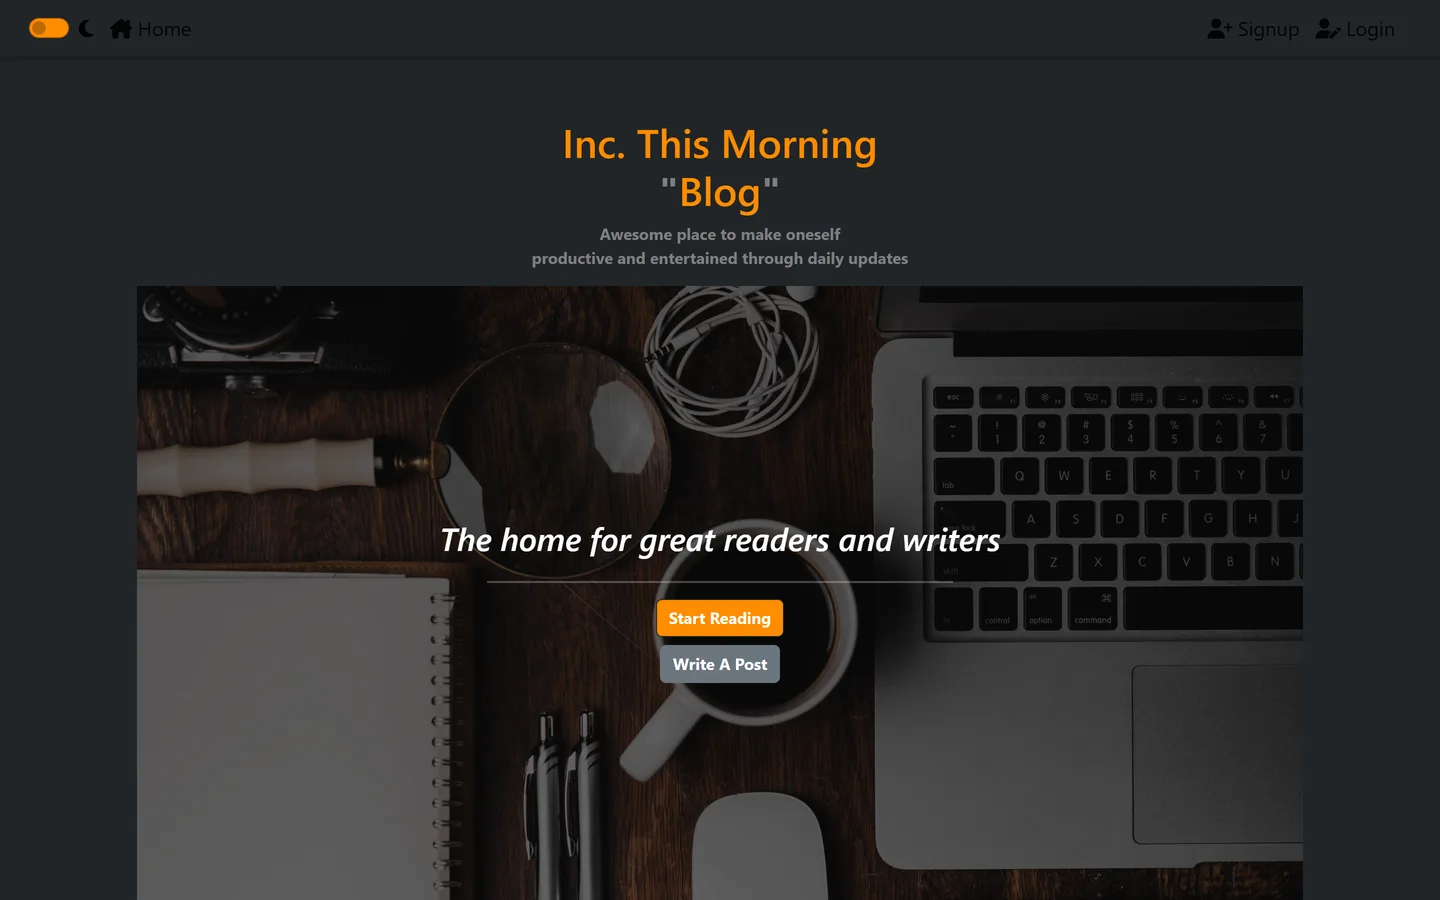
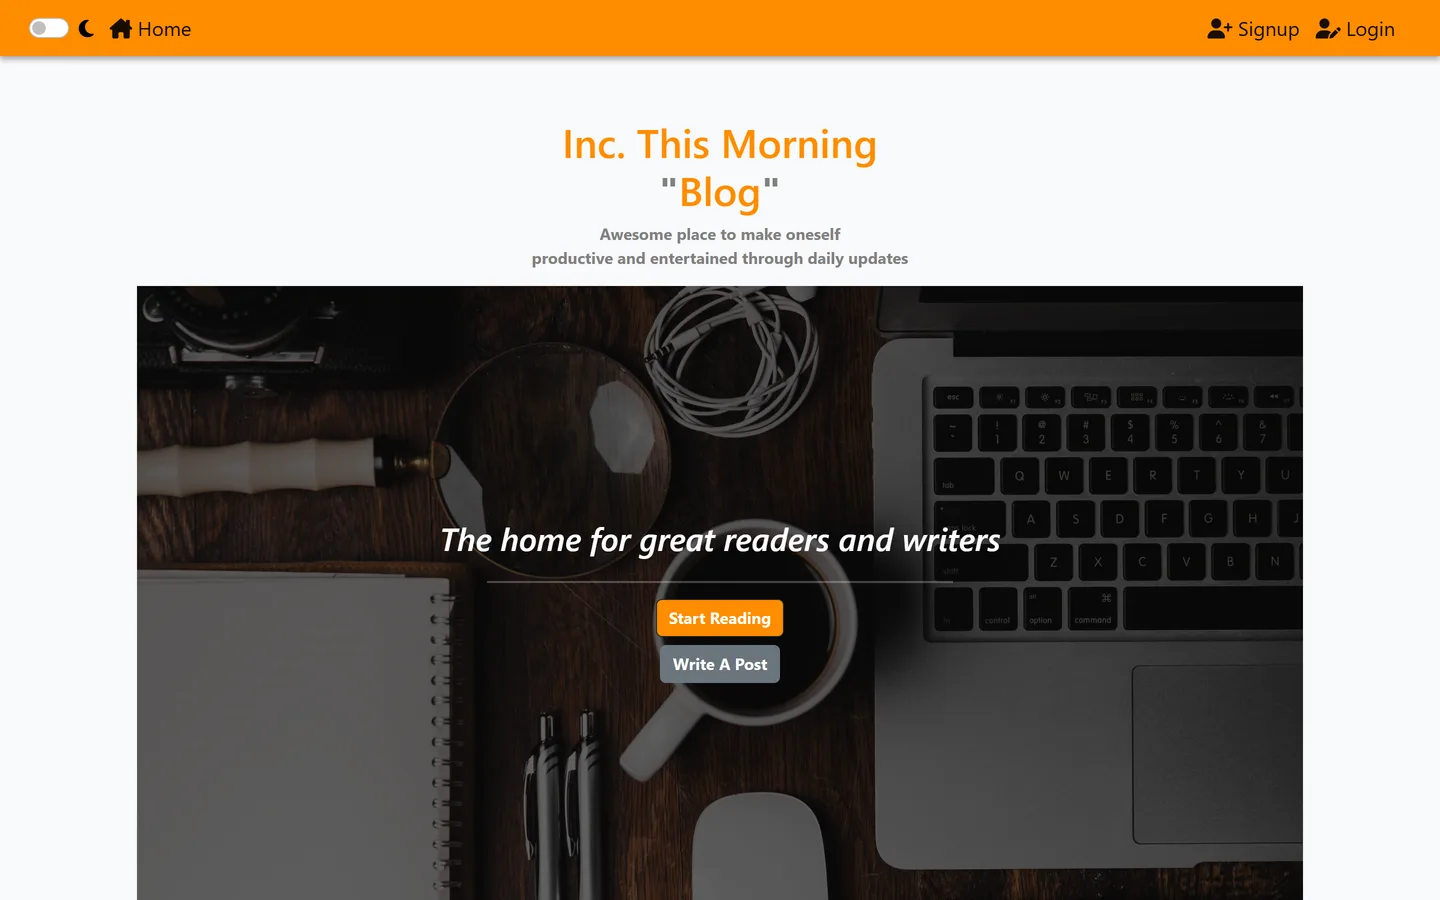
Use light mode shots and move Comment Sanitizer above Sales Call

diff --git a/src/data/content.ts b/src/data/content.ts
@@ -70,7 +70,11 @@ export interface CaseStudy {
      * one also becomes the collapsed card thumbnail.
      */
     screenshots?: { src: string; caption?: string }[];
-    /** Static screen for the collapsed card, so thumbnails do not autoplay. */
+    /**
+     * Collapsed card image. For phone media it stops the thumbnail
+     * autoplaying; for diagram media it lets the card show something
+     * recognisable when the in-card screenshot is a detail crop.
+     */
     thumbnail?: string;
   };
 }
@@ -260,6 +264,70 @@ export const caseStudies: CaseStudy[] = [
     },
   },
   {
+    slug: "comment-sanitizer",
+    name: "Comment Sanitizer",
+    tagline: "A blog that scores every comment before it reaches the database",
+    period: "2022, revived 2026",
+    location: "Kochi, India",
+    platformTags: ["Full-Stack", "ML"],
+    summary:
+      "A MERN blog where a scikit-learn service sits in front of the comment endpoint. Every comment is classified before it is stored, so a toxic one is rejected rather than moderated after the fact.",
+    problem:
+      "Comment moderation is normally reactive: something abusive gets posted, other people see it, and a human removes it later. The interesting version is to make the write itself conditional on a model's verdict.",
+    role:
+      "Built the original three-service application. Returned to it in 2026 to retrain the model, replace the configuration, and deploy the whole thing.",
+    architecture: [
+      "React client on Vercel, Express and Mongoose API plus a Flask sanitiser on Render, MongoDB Atlas for storage",
+      "The API calls the sanitiser before writing, so the model decides whether the comment is ever persisted",
+      "TF-IDF over 50,000 uni and bigram features feeding a OneVsRest logistic regression across six labels: toxic, severe toxic, obscene, threat, insult, identity hate",
+      "Multi-label rather than binary by design: the service sums the six independent probabilities and flags on a threshold, which a two-class model cannot express",
+      "JWT authentication, with the secret and every service URL read from the environment",
+    ],
+    highlights: [
+      "Mean ROC AUC of 0.979 across the six labels, trained on 159,571 comments with a 20% holdout",
+      "Classifies in roughly 0.2 seconds, fast enough to sit inline in the request rather than in a queue",
+      "Retrained from scratch in 2026 after the original model artefacts turned out never to have been committed, leaving the service unable to start on a fresh checkout",
+      "Measured the decision threshold rather than trusting it: the inherited cut-off scored 0.95 precision but only 0.58 recall, so it was missing 42% of toxic comments",
+    ],
+    outcome: [
+      "Live across three hosted services and a managed database, all on free tiers",
+      "Closed a real security hole found on the way: the JWT signing secret was a literal string committed to a public repository, so anyone reading it could mint a token for any account",
+    ],
+    stack: [
+      "React",
+      "Node.js",
+      "Express",
+      "MongoDB",
+      "Flask",
+      "scikit-learn",
+      "JWT",
+    ],
+    links: {
+      demoVideo: null,
+      repo: "https://github.com/Abhijith-Jaideep/Comment-Sanitizer",
+      live: "https://commentsanitizer.vercel.app",
+      liveNote:
+        "The page loads straight away. Posting a comment calls two free-tier services that sleep when idle, so the first one can take a minute.",
+    },
+    demoLogin: {
+      username: "demo",
+      password: "DemoPass2026",
+      note: "Open a post and comment twice: once normally, once rudely. The second one is refused before it is ever stored.",
+    },
+    media: {
+      kind: "diagram",
+      src: "/images/commentsanitizer-architecture.svg",
+      caption: "Comment path, with the model gating the write",
+      thumbnail: "/images/commentsanitizer-landing.webp",
+      screenshots: [
+        {
+          src: "/images/commentsanitizer-comments.webp",
+          caption: "Comment thread, every entry cleared by the model first",
+        },
+      ],
+    },
+  },
+  {
     slug: "sales-call-prioritisation",
     name: "Sales Call Prioritisation",
     tagline: "Ranking insurance leads by likelihood to convert",
@@ -316,69 +384,6 @@ export const caseStudies: CaseStudy[] = [
         {
           src: "/images/salescall-screenshot.webp",
           caption: "Priority list, ranked best first with band filters",
-        },
-      ],
-    },
-  },
-  {
-    slug: "comment-sanitizer",
-    name: "Comment Sanitizer",
-    tagline: "A blog that scores every comment before it reaches the database",
-    period: "2022, revived 2026",
-    location: "Kochi, India",
-    platformTags: ["Full-Stack", "ML"],
-    summary:
-      "A MERN blog where a scikit-learn service sits in front of the comment endpoint. Every comment is classified before it is stored, so a toxic one is rejected rather than moderated after the fact.",
-    problem:
-      "Comment moderation is normally reactive: something abusive gets posted, other people see it, and a human removes it later. The interesting version is to make the write itself conditional on a model's verdict.",
-    role:
-      "Built the original three-service application. Returned to it in 2026 to retrain the model, replace the configuration, and deploy the whole thing.",
-    architecture: [
-      "React client on Vercel, Express and Mongoose API plus a Flask sanitiser on Render, MongoDB Atlas for storage",
-      "The API calls the sanitiser before writing, so the model decides whether the comment is ever persisted",
-      "TF-IDF over 50,000 uni and bigram features feeding a OneVsRest logistic regression across six labels: toxic, severe toxic, obscene, threat, insult, identity hate",
-      "Multi-label rather than binary by design: the service sums the six independent probabilities and flags on a threshold, which a two-class model cannot express",
-      "JWT authentication, with the secret and every service URL read from the environment",
-    ],
-    highlights: [
-      "Mean ROC AUC of 0.979 across the six labels, trained on 159,571 comments with a 20% holdout",
-      "Classifies in roughly 0.2 seconds, fast enough to sit inline in the request rather than in a queue",
-      "Retrained from scratch in 2026 after the original model artefacts turned out never to have been committed, leaving the service unable to start on a fresh checkout",
-      "Measured the decision threshold rather than trusting it: the inherited cut-off scored 0.95 precision but only 0.58 recall, so it was missing 42% of toxic comments",
-    ],
-    outcome: [
-      "Live across three hosted services and a managed database, all on free tiers",
-      "Closed a real security hole found on the way: the JWT signing secret was a literal string committed to a public repository, so anyone reading it could mint a token for any account",
-    ],
-    stack: [
-      "React",
-      "Node.js",
-      "Express",
-      "MongoDB",
-      "Flask",
-      "scikit-learn",
-      "JWT",
-    ],
-    links: {
-      demoVideo: null,
-      repo: "https://github.com/Abhijith-Jaideep/Comment-Sanitizer",
-      live: "https://commentsanitizer.vercel.app",
-      liveNote:
-        "The page loads straight away. Posting a comment calls two free-tier services that sleep when idle, so the first one can take a minute.",
-    },
-    demoLogin: {
-      username: "demo",
-      password: "DemoPass2026",
-      note: "Open a post and comment twice: once normally, once rudely. The second one is refused before it is ever stored.",
-    },
-    media: {
-      kind: "diagram",
-      src: "/images/commentsanitizer-architecture.svg",
-      caption: "Comment path, with the model gating the write",
-      screenshots: [
-        {
-          src: "/images/commentsanitizer-landing.webp",
-          caption: "The blog front end, running on Vercel",
         },
       ],
     },

diff --git a/src/components/CaseStudyCard.tsx b/src/components/CaseStudyCard.tsx
@@ -33,9 +33,15 @@ export function CaseStudyCard({ study }: { study: CaseStudy }) {
           ) : (
             <div className="w-28">
               {/* Prefer the product shot: a screenshot is recognisable at
-                  thumbnail size, a schematic is not. */}
+                  thumbnail size, a schematic is not. An explicit thumbnail
+                  wins, for cards whose in-card shot is a detail crop that
+                  would read as nothing at 112px wide. */}
               <DiagramFrame
-                src={study.media.screenshots?.[0]?.src ?? study.media.src}
+                src={
+                  study.media.thumbnail ??
+                  study.media.screenshots?.[0]?.src ??
+                  study.media.src
+                }
               />
             </div>
           )}
